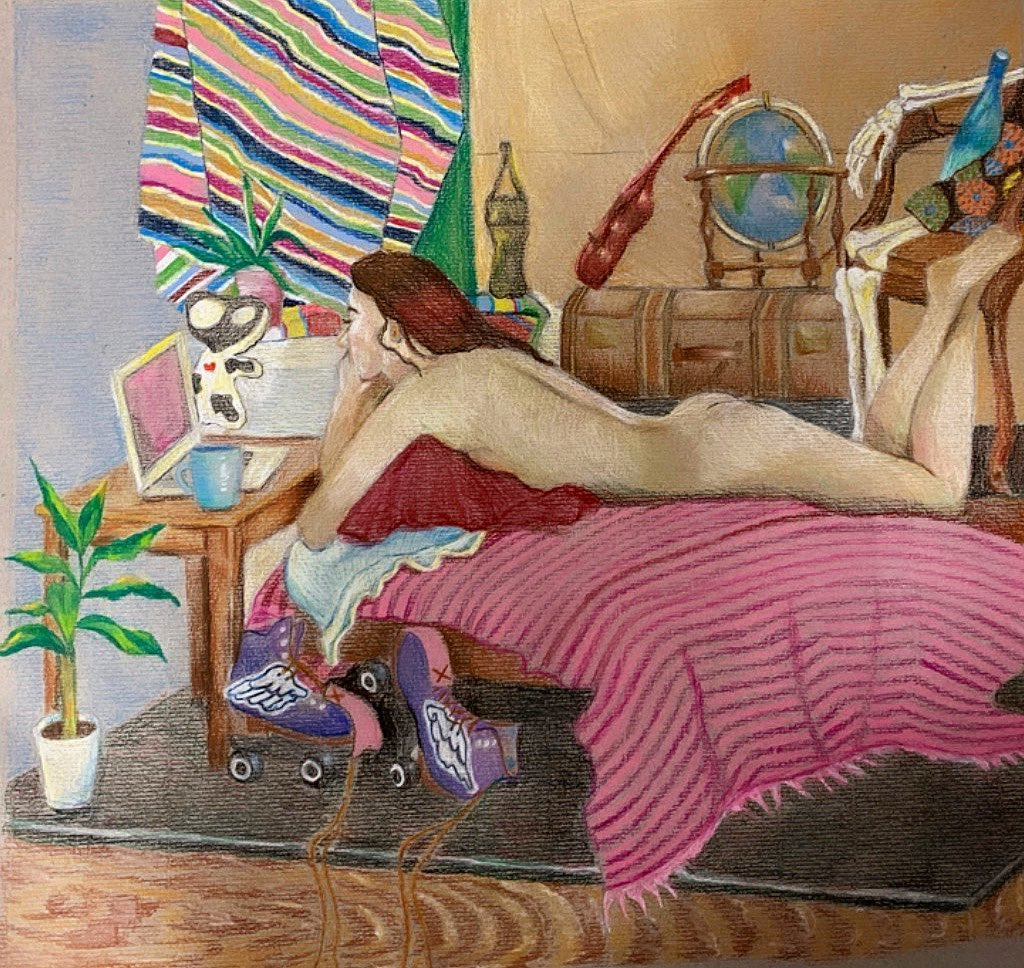
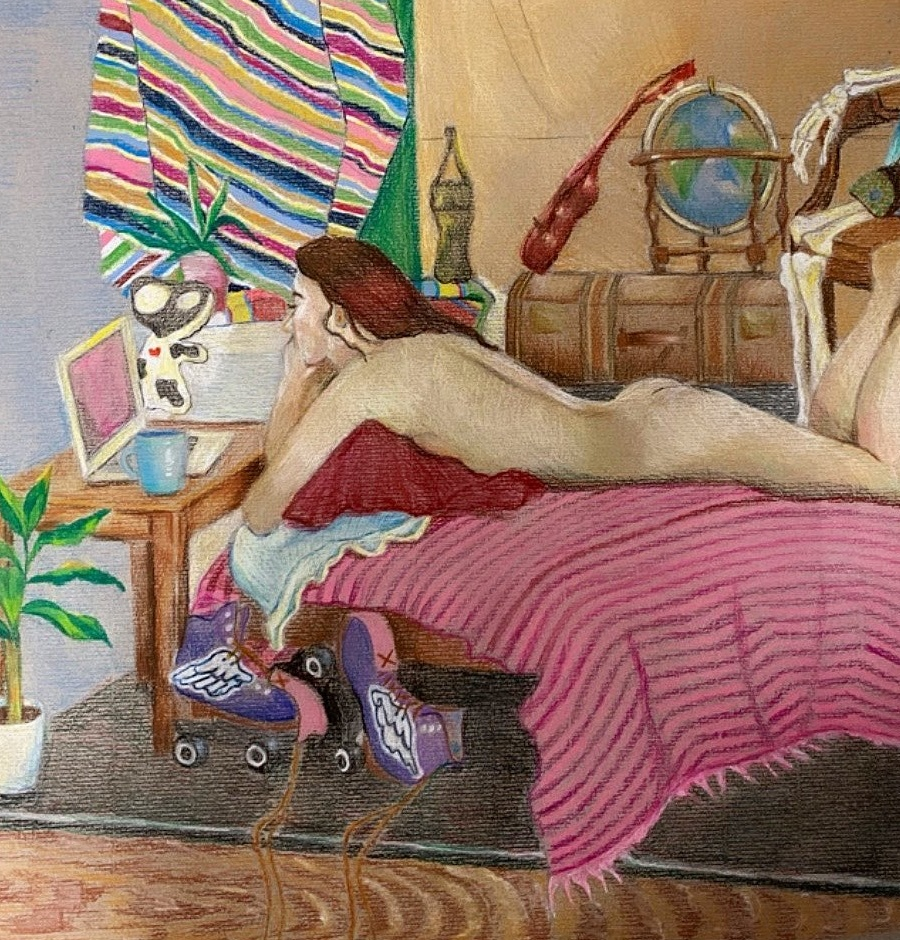
fix: Crop studio/easel backgrounds from figure drawing & dog portrait, refine tooltip to subtle frosted glass

diff --git a/css/style.css b/css/style.css
@@ -663,26 +663,40 @@ body {
   position: absolute;
   top: 100%;
   left: 50%;
-  transform: translateX(-50%) translateY(8px);
-  background: var(--text);
-  color: var(--bg);
-  padding: 6px 10px;
-  border-radius: 6px;
+  transform: translateX(-50%) translateY(4px);
+  background: rgba(255, 255, 255, 0.72);
+  color: var(--text-muted);
+  backdrop-filter: blur(16px);
+  -webkit-backdrop-filter: blur(16px);
+  border: 1px solid rgba(0, 0, 0, 0.08);
+  padding: 3px 8px;
+  border-radius: 12px;
   font-family: 'Inter', sans-serif;
-  font-size: 0.75rem;
+  font-size: 0.68rem;
+  font-weight: 400;
+  letter-spacing: 0.02em;
   white-space: nowrap;
   pointer-events: none;
   opacity: 0;
   visibility: hidden;
-  transition: opacity 0.3s ease, visibility 0.3s ease, transform 0.3s ease;
+  transition: opacity 0.35s cubic-bezier(0.2, 0.8, 0.2, 1),
+              visibility 0.35s cubic-bezier(0.2, 0.8, 0.2, 1),
+              transform 0.35s cubic-bezier(0.2, 0.8, 0.2, 1);
   z-index: 100;
-  box-shadow: 0 4px 12px rgba(0,0,0,0.15);
+  box-shadow: 0 2px 10px rgba(0, 0, 0, 0.05);
+}
+
+[data-theme="dark"] .frame-toggle-tooltip {
+  background: rgba(26, 26, 26, 0.75);
+  color: var(--text-muted);
+  border-color: rgba(255, 255, 255, 0.1);
+  box-shadow: 0 2px 12px rgba(0, 0, 0, 0.3);
 }
 
 .frame-toggle-tooltip.visible {
-  opacity: 1;
+  opacity: 0.9;
   visibility: visible;
-  transform: translateX(-50%) translateY(12px);
+  transform: translateX(-50%) translateY(8px);
 }
 
 /* ---------- Gallery ---------- */
